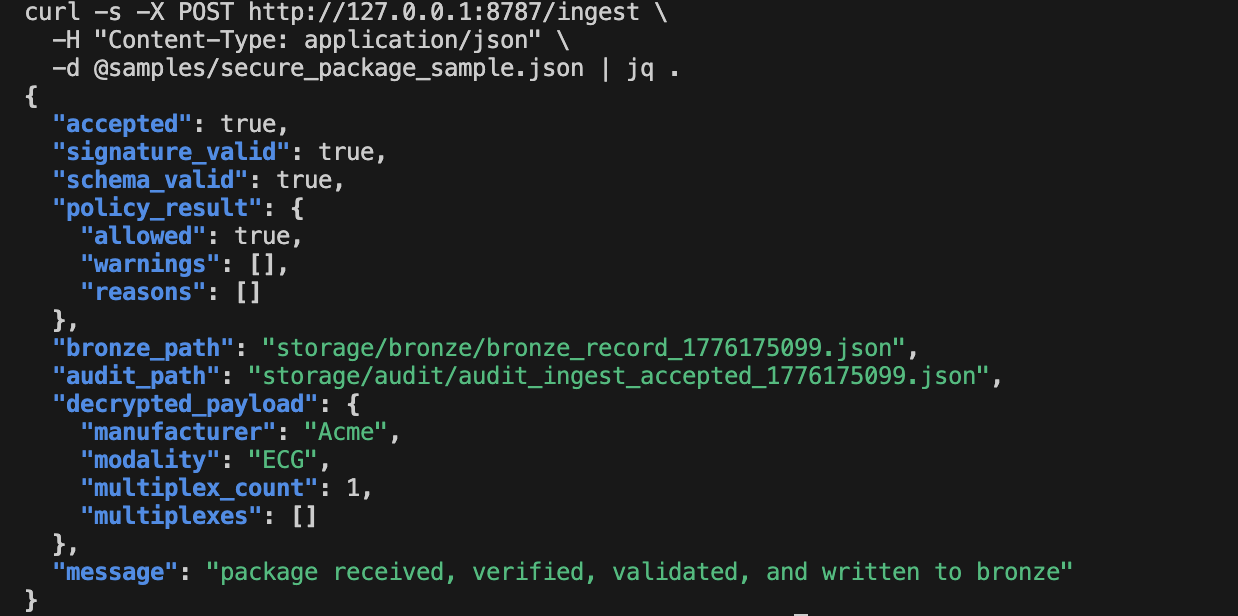
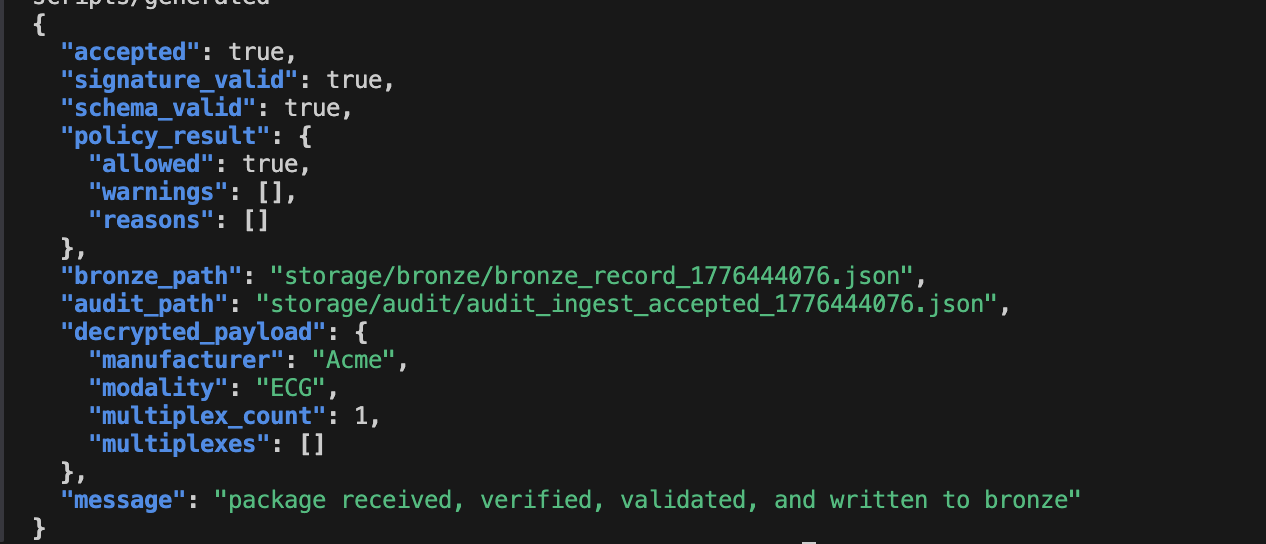
docs(showcase): embed visuals and evidence screenshots in public showcase

Changed region(s): [[0.0, 0.0, 0.8595, 1.0]]

diff --git a/README.md b/README.md
@@ -15,8 +15,6 @@ It exists to communicate:
 
 It does **not** contain the private product core.
 
-![Architecture overview](docs/architecture-overview-v2.jpeg)
-
 ## What the platform does
 
 The platform creates a controlled ingress layer before sensitive metadata enters downstream systems.
@@ -28,6 +26,10 @@ Core ideas:
 - validate schema and policy
 - persist Bronze and audit evidence
 - control release to downstream AI, analytics, or clinical tools
+
+## Architecture overview
+
+![Architecture overview](docs/architecture-overview-v2.jpeg)
 
 ## Security capabilities showcased
 
@@ -43,7 +45,31 @@ This showcase reflects the current secure-ingestion baseline:
 - PQC transport hardening track
 - live metering into a private platform layer
 
-![Secure ingestion UI](docs/ui-secure-ingestion.png)
+## Illustrative control-plane UI
+
+The implementation is private. This UI is an illustrative control-plane concept for the private platform layer.
+
+![Secure ingestion UI concept](docs/ui-secure-ingestion.png)
+
+## Bronze / audit model
+
+The ingress path separates normalized operational storage from audit evidence.
+
+![Bronze and audit flow](docs/bronze-flow.png)
+
+## Representative evidence screenshots
+
+### Accepted secure package response
+
+![Accepted response](docs/screenshots/accepted-response.png)
+
+### Bronze output example
+
+![Bronze output](docs/screenshots/bronze-output.png)
+
+### Audit output example
+
+![Audit output](docs/screenshots/audit-output.png)
 
 ## Public / private split
 
@@ -69,12 +95,6 @@ The private implementation continues separately and includes:
 - observability
 - deployment automation
 - customer integrations
-
-## Bronze / audit model
-
-The ingress path separates normalized operational storage from audit evidence.
-
-![Bronze and audit flow](docs/bronze-flow.png)
 
 ## Current maturity
 
